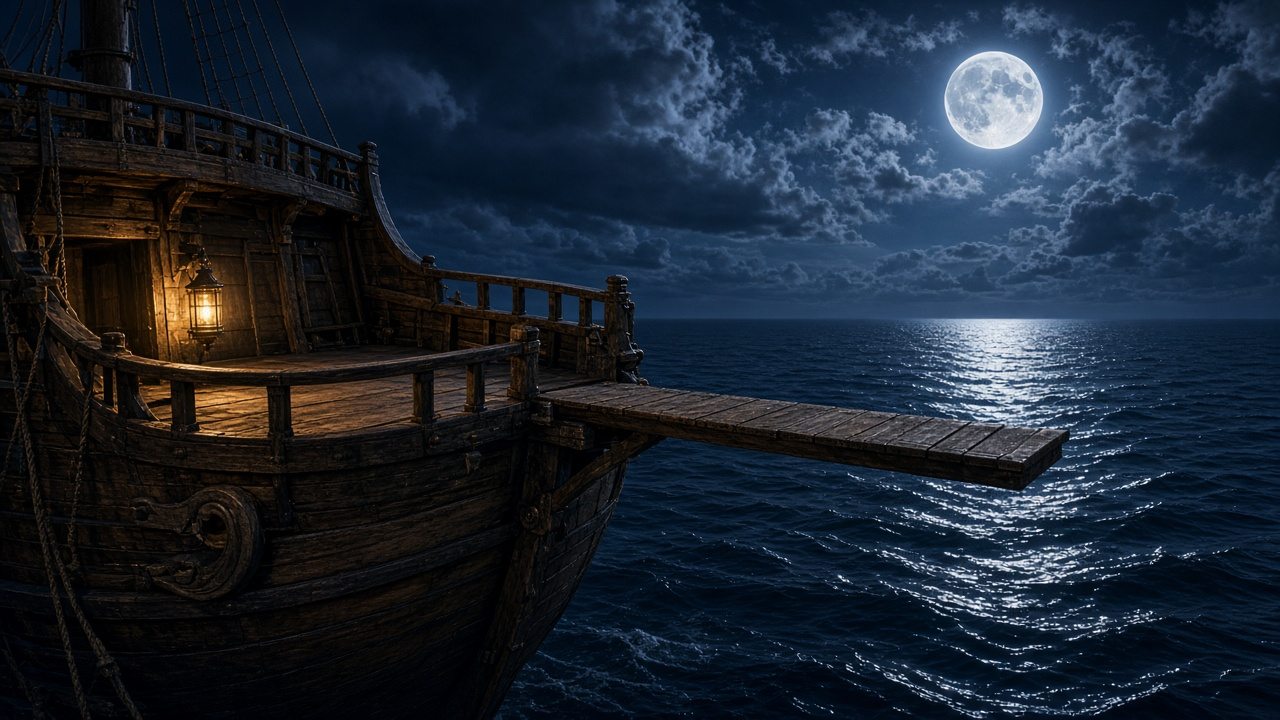
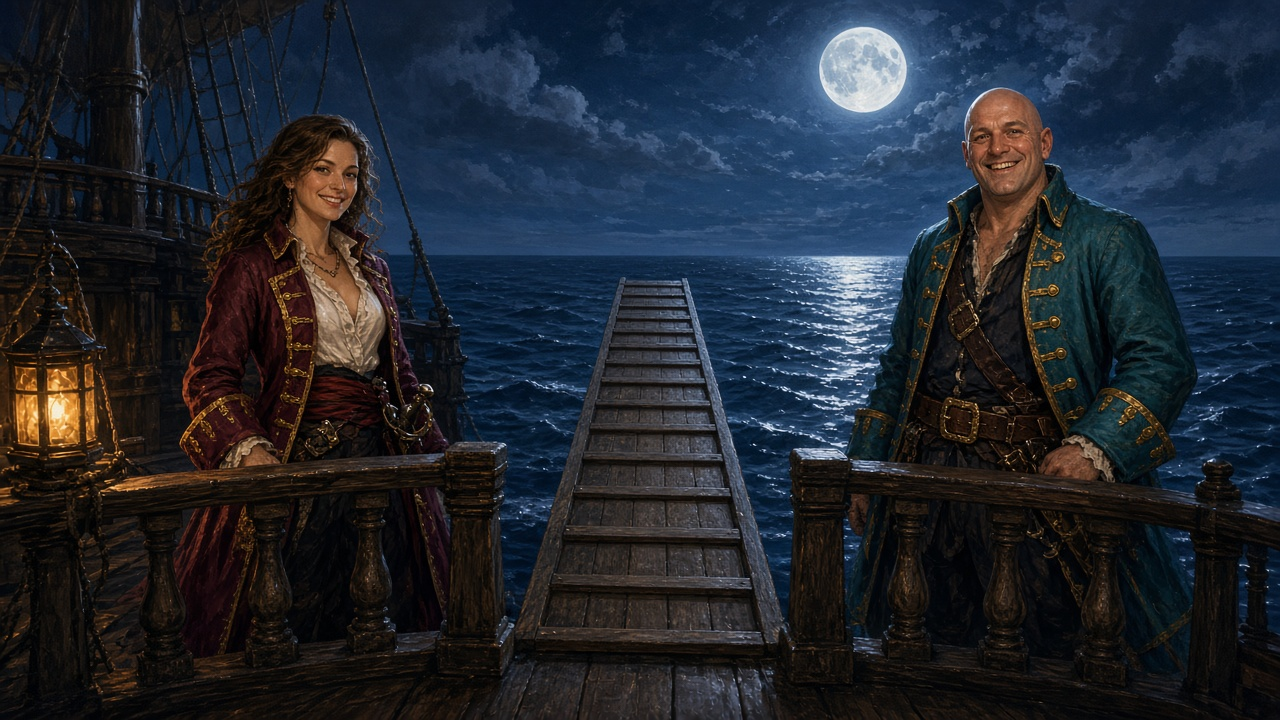
Bake bride and groom into the ship scene painting
Replace photo overlays with a single painted background where the
couple stands behind the rail on each side of the plank.

diff --git a/pirate-treasures.css b/pirate-treasures.css
@@ -405,48 +405,17 @@ body.pirate-page {
   width: 100%;
   height: 100%;
   object-fit: cover;
-  object-position: 20% 40%;
+  object-position: center center;
   user-select: none;
   pointer-events: none;
-}
-
-.couple-pirate {
-  position: absolute;
-  width: clamp(96px, 13vw, 150px);
-  height: clamp(180px, 30vw, 300px);
-  z-index: 3;
-  /* Keep full figures, but hide boots below the painted rail */
-  clip-path: inset(0 0 18% 0);
-}
-
-.couple-pirate-art {
-  width: 100%;
-  height: 100%;
-  object-fit: contain;
-  object-position: bottom center;
-  display: block;
-  /* Black studio backdrop drops out against the night scene */
-  mix-blend-mode: lighten;
-  filter: drop-shadow(0 4px 10px rgba(0, 0, 0, 0.55));
-}
-
-/* Full-height figures flanking the plank, standing behind the rail */
-.couple-pirate--bride {
-  left: 14%;
-  top: 8%;
-}
-
-.couple-pirate--groom {
-  left: 44%;
-  top: 12%;
 }
 
 .player-pirate {
   position: absolute;
   width: clamp(56px, 7.5vw, 78px);
   height: clamp(78px, 11vw, 108px);
-  top: 30%;
-  left: 36%;
+  top: 46%;
+  left: 44%;
   z-index: 4;
   filter: drop-shadow(0 5px 10px rgba(0, 0, 0, 0.65));
   transition:
@@ -464,18 +433,18 @@ body.pirate-page {
 }
 
 .player-pirate[data-step="0"] {
-  left: 36%;
-  top: 30%;
+  left: 44%;
+  top: 46%;
 }
 
 .player-pirate[data-step="1"] {
-  left: 48%;
-  top: 34%;
+  left: 54%;
+  top: 50%;
 }
 
 .player-pirate[data-step="2"] {
-  left: 60%;
-  top: 40%;
+  left: 64%;
+  top: 54%;
 }
 
 .player-pirate.is-falling {
@@ -484,8 +453,8 @@ body.pirate-page {
 
 .splash {
   position: absolute;
-  left: 62%;
-  top: 52%;
+  left: 66%;
+  top: 60%;
   width: 160px;
   height: 110px;
   pointer-events: none;
@@ -993,33 +962,23 @@ body.pirate-page {
     cursor: pointer;
   }
 
-  .couple-pirate--bride {
-    left: 8%;
-    top: 10%;
-  }
-
-  .couple-pirate--groom {
-    left: 40%;
-    top: 14%;
-  }
-
   .player-pirate[data-step="0"] {
-    left: 32%;
-    top: 31%;
+    left: 42%;
+    top: 48%;
   }
 
   .player-pirate[data-step="1"] {
-    left: 44%;
-    top: 35%;
+    left: 52%;
+    top: 52%;
   }
 
   .player-pirate[data-step="2"] {
-    left: 56%;
-    top: 42%;
+    left: 62%;
+    top: 56%;
   }
 
   .splash {
-    left: 58%;
-    top: 54%;
+    left: 64%;
+    top: 62%;
   }
 }

diff --git a/walk-the-plank.html b/walk-the-plank.html
@@ -10,7 +10,7 @@
       href="https://fonts.googleapis.com/css2?family=Figtree:wght@400;500;600&family=Libre+Baskerville:ital,wght@0,400;0,700;1,400&family=Pirata+One&display=swap"
       rel="stylesheet"
     />
-    <link rel="stylesheet" href="pirate-treasures.css?v=11" />
+    <link rel="stylesheet" href="pirate-treasures.css?v=12" />
   </head>
   <body class="pirate-page game-page">
     <header class="game-topbar">
@@ -27,8 +27,6 @@
           draggable="false"
         />
 
-        <div class="couple-pirate couple-pirate--bride" id="bride-pirate"></div>
-        <div class="couple-pirate couple-pirate--groom" id="groom-pirate"></div>
         <div class="player-pirate" id="player-pirate" data-step="0" hidden></div>
 
         <div class="splash" id="splash" aria-hidden="true">
@@ -127,6 +125,6 @@
     <script src="plank-pirates.js"></script>
     <script src="plank-leaderboard.js"></script>
     <script src="walk-the-plank-questions.js"></script>
-    <script src="walk-the-plank.js?v=4"></script>
+    <script src="walk-the-plank.js?v=5"></script>
   </body>
 </html>

diff --git a/walk-the-plank.js b/walk-the-plank.js
@@ -20,8 +20,6 @@
   const endQuitBtn = document.getElementById("end-quit-btn");
   const piratePicker = document.getElementById("pirate-picker");
   const playerPirate = document.getElementById("player-pirate");
-  const bridePirate = document.getElementById("bride-pirate");
-  const groomPirate = document.getElementById("groom-pirate");
   const questionText = document.getElementById("question-text");
   const answerGrid = document.getElementById("answer-grid");
   const feedbackEl = document.getElementById("feedback");
@@ -199,13 +197,6 @@
         `;
       })
       .join("");
-  }
-
-  function paintCouple() {
-    bridePirate.innerHTML =
-      '<img class="couple-pirate-art" src="images/pirate-bride.jpg" alt="Bride as a pirate" />';
-    groomPirate.innerHTML =
-      '<img class="couple-pirate-art" src="images/pirate-groom.jpg" alt="Groom as a pirate" />';
   }
 
   function paintPlayer() {
@@ -489,7 +480,6 @@
   });
 
   buildPiratePicker();
-  paintCouple();
   updatePlayEnabled();
   refreshLeaderboard();
 })();
